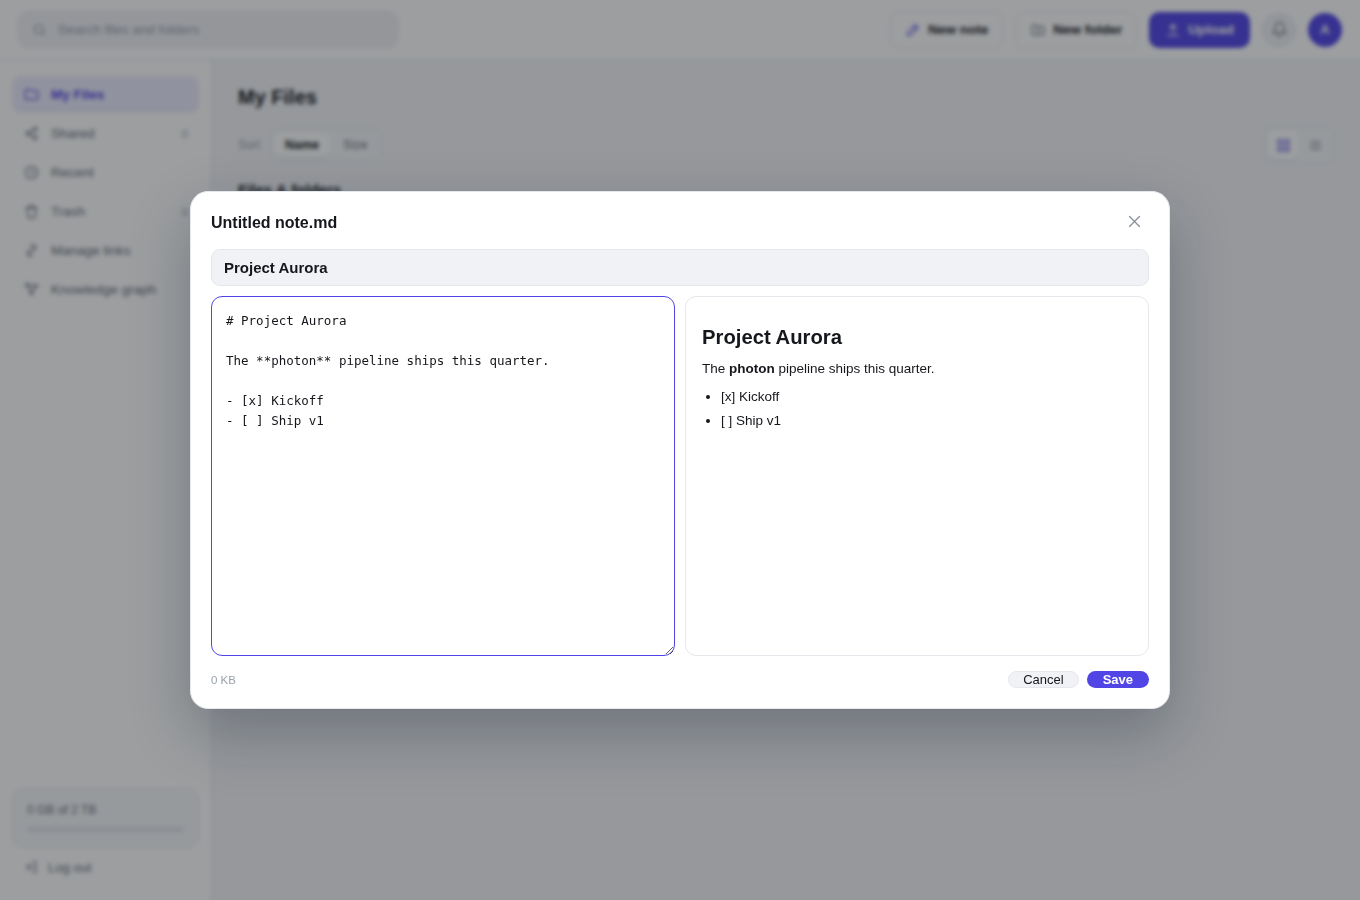
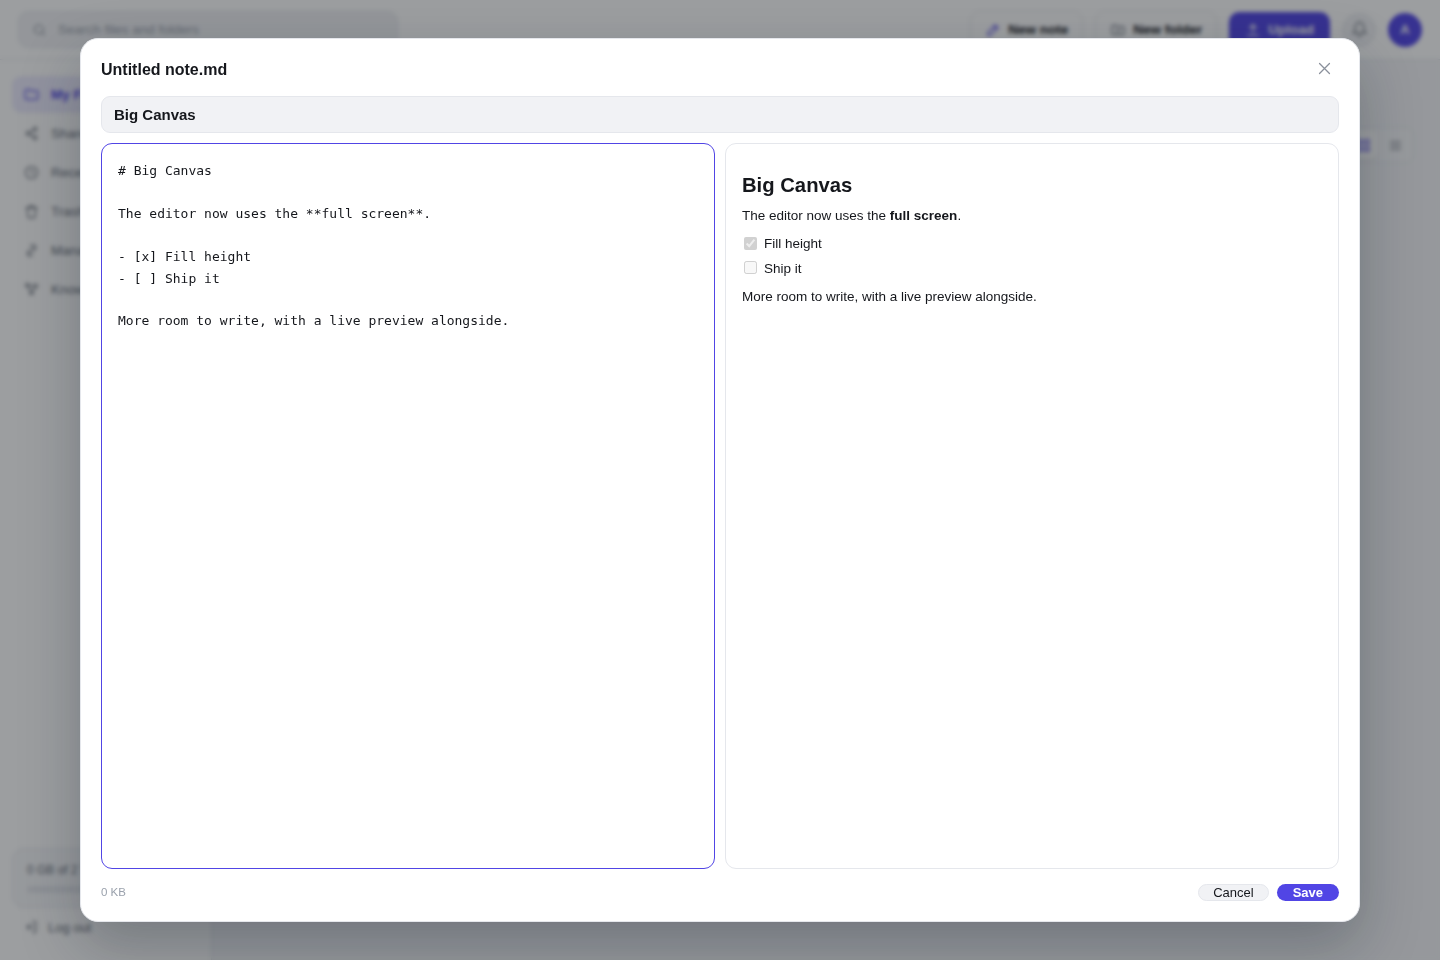
Polish the note editor: full-screen, task checkboxes, Cmd+S, no stray notes
- Full-screen writing surface: the note editor now fills ~92% of the window
  with the write and live-preview panes stretching to the full height, instead
  of a small fixed textarea. Non-note text editing keeps its resizable box.
- Markdown task lists render as real (disabled) checkboxes: '- [x] done' /
  '- [ ] todo' show ticked/empty boxes instead of literal '[x]' text.
- Cmd/Ctrl+S saves from the editor without the browser's save dialog.
- A brand-new note that's closed while still empty is discarded, so 'New note'
  → change your mind never leaves an empty 'Untitled note' behind.

No behavior change for other modals or existing text editing. Frontend 20 unit
tests (added task-list rendering) + build green; the full note walkthrough
(create/edit/save/backlinks/move/delete) re-run clean, and empty-note discard
verified.

Claude-Session: https://claude.ai/code/session_0126QC2J9R6rneDo8ahkZnT4

diff --git a/frontend/src/App.jsx b/frontend/src/App.jsx
@@ -44,6 +44,7 @@ export default class App extends React.Component {
     editName: '',
     editSaving: false,
     creatingNote: false,
+    newNoteId: null, // a just-created note; discarded if closed while still empty
     noteRelated: null, // graph neighbors of the open note (for the backlinks panel)
     // Rename / move dialogs.
     renameName: '',
@@ -747,9 +748,11 @@ export default class App extends React.Component {
         this._videoEl.pause();
       } catch (e) {}
     }
+    this._discardEmptyNewNote(); // drop an untouched brand-new note on close
     this.setState({
       modal: null,
       activeFileId: null,
+      newNoteId: null,
       videoPlaying: false,
       videoProgress: 0,
       videoCurrent: 0,
@@ -818,6 +821,7 @@ export default class App extends React.Component {
       editing: false,
       editText: '',
       editName: '',
+      newNoteId: null,
       noteRelated: null,
     });
     // Load backlinks/links for text notes so the editor can show connections.
@@ -904,12 +908,25 @@ export default class App extends React.Component {
           editText: '',
           editName: baseName(f.name),
           noteRelated: null,
+          newNoteId: f.id,
         });
       })
       .catch((err) => {
         this.setState({ creatingNote: false });
         this.toast(firstError(err, 'Could not create note'));
       });
+  }
+  // A brand-new note that's closed while still empty is discarded, so hitting
+  // "New note" and changing your mind never leaves an empty "Untitled note".
+  _discardEmptyNewNote() {
+    const { newNoteId, activeFileId, editText, editName } = this.state;
+    if (!newNoteId || newNoteId !== activeFileId) return false;
+    const bodyEmpty = !(editText || '').trim();
+    const titleUntouched = !(editName || '').trim() || editName.trim() === 'Untitled note';
+    if (!bodyEmpty || !titleUntouched) return false;
+    this.setState((s) => ({ files: s.files.filter((x) => x.id !== newNoteId), newNoteId: null }));
+    api.deleteFile(newNoteId).catch(() => {});
+    return true;
   }
 
   // --- Edit-in-place (text files / notes) -----------------------------------
@@ -928,6 +945,11 @@ export default class App extends React.Component {
     this.setState({ editName: e.target.value });
   }
   cancelEdit() {
+    // Cancelling a brand-new empty note closes and discards it entirely.
+    if (this._discardEmptyNewNote()) {
+      this.closeModal();
+      return;
+    }
     this.setState({ editing: false, editText: '', editName: '' });
   }
   saveEdit() {
@@ -950,6 +972,7 @@ export default class App extends React.Component {
             editing: false,
             editSaving: false,
             editName: '',
+            newNoteId: null, // it's a real, saved note now
             previewText: content,
             files: s.files.map((x) =>
               x.id === id
@@ -2257,7 +2280,7 @@ export default class App extends React.Component {
         : modal === 'graph'
           ? 'min(1040px, 95vw)'
           : modal === 'preview' && st.editing && st.previewKind === 'markdown'
-            ? 'min(980px, 96vw)'
+            ? 'min(1280px, 96vw)'
             : d.modalW,
       boxMaxH: theater
         ? '100vh'
@@ -2266,6 +2289,10 @@ export default class App extends React.Component {
           : modal === 'preview' && st.editing
             ? '92vh'
             : d.modalMaxH,
+      // The note editor gets a definite, near-full-screen height so the write /
+      // preview panes fill the window instead of a small fixed textarea.
+      boxH:
+        modal === 'preview' && st.editing && st.previewKind === 'markdown' ? '92vh' : undefined,
       boxBg: theater ? '#0B0C0F' : '#FFFFFF',
       boxBorder: theater ? 'none' : '1px solid #E5E7EC',
       boxRadius: theater ? '0px' : d.modalRadius,

diff --git a/frontend/src/components/PreviewModal.jsx b/frontend/src/components/PreviewModal.jsx
@@ -28,6 +28,8 @@ const mdCss = () => `
   .md-body h1{font-size:1.5em;} .md-body h2{font-size:1.28em;} .md-body h3{font-size:1.1em;}
   .md-body p{margin:0.5em 0;} .md-body ul,.md-body ol{margin:0.5em 0;padding-left:1.4em;}
   .md-body li{margin:0.2em 0;}
+  .md-body li.md-task{list-style:none;margin-left:-1.25em;display:flex;align-items:flex-start;gap:7px;}
+  .md-body li.md-task input{margin:0.28em 0 0;flex:0 0 auto;accent-color:${theme.brand};}
   .md-body code{background:${theme.surface};padding:1px 5px;border-radius:5px;font-family:'IBM Plex Mono',monospace;font-size:0.9em;}
   .md-body pre.md-pre{background:${theme.surface};padding:12px;border-radius:9px;overflow:auto;border:1px solid ${theme.border};}
   .md-body pre.md-pre code{background:none;padding:0;}
@@ -54,28 +56,43 @@ function Body(V) {
       <textarea
         value={V.editText}
         onInput={V.setEditText}
+        onKeyDown={(e) => {
+          // Cmd/Ctrl+S saves without triggering the browser's save dialog.
+          if ((e.metaKey || e.ctrlKey) && (e.key === 's' || e.key === 'S')) {
+            e.preventDefault();
+            if (!V.editSaving) V.onSaveEdit();
+          }
+        }}
         autoFocus
         spellCheck={false}
         placeholder={V.isNote ? '# Start writing…\n\nLink notes with [[Note name]].' : ''}
         style={{
-          flex: '1 1 320px',
-          minHeight: '360px',
-          resize: 'vertical',
-          padding: '14px',
+          flex: '1 1 340px',
+          minHeight: V.isNote ? '240px' : '360px',
+          resize: V.isNote ? 'none' : 'vertical',
+          padding: '16px',
           border: `1px solid ${theme.brand}`,
           borderRadius: '11px',
           background: theme.white,
           color: theme.text,
           fontFamily: "'IBM Plex Mono','SFMono-Regular',Menlo,monospace",
-          fontSize: '12.5px',
-          lineHeight: '1.6',
+          fontSize: '13px',
+          lineHeight: '1.65',
           outline: 'none',
           boxSizing: 'border-box',
         }}
       />
     );
     return (
-      <div style={{ display: 'flex', flexDirection: 'column', gap: '10px' }}>
+      <div
+        style={{
+          display: 'flex',
+          flexDirection: 'column',
+          gap: '10px',
+          flex: '1 1 auto',
+          minHeight: 0,
+        }}
+      >
         {/* Editable note title */}
         <input
           value={V.editName}
@@ -97,12 +114,13 @@ function Body(V) {
           }}
         />
         {V.isNote ? (
-          // Split: write on the left, live rendered preview on the right.
-          <div style={{ display: 'flex', gap: '10px', flexWrap: 'wrap' }}>
+          // Split: write on the left, live rendered preview on the right — both
+          // fill the (near-full-screen) editor height.
+          <div style={{ display: 'flex', gap: '10px', flexWrap: 'wrap', flex: '1 1 auto', minHeight: 0 }}>
             {editor}
             <div
               className="md-body md-live"
-              style={{ flex: '1 1 320px', minHeight: '360px' }}
+              style={{ flex: '1 1 340px', minHeight: '240px', maxHeight: 'none' }}
             >
               <style>{mdCss()}</style>
               {V.editText ? (

diff --git a/frontend/src/lib/markdown.js b/frontend/src/lib/markdown.js
@@ -105,7 +105,17 @@ export function renderMarkdown(src) {
         out.push(`<${want}>`);
         listType = want;
       }
-      out.push(`<li>${inline((ol || ul)[1])}</li>`);
+      const raw = (ol || ul)[1];
+      // Task-list item: "- [ ] todo" / "- [x] done" -> a real (disabled) checkbox.
+      const task = ul ? /^\[([ xX])\]\s+(.*)$/.exec(raw) : null;
+      if (task) {
+        const checked = task[1].toLowerCase() === 'x' ? ' checked' : '';
+        out.push(
+          `<li class="md-task"><input type="checkbox" disabled${checked}/>${inline(task[2])}</li>`
+        );
+      } else {
+        out.push(`<li>${inline(raw)}</li>`);
+      }
       i++;
       continue;
     }

diff --git a/frontend/src/lib/markdown.test.js b/frontend/src/lib/markdown.test.js
@@ -19,6 +19,14 @@ describe('renderMarkdown', () => {
     expect(ol).toContain('<li>first</li>');
   });
 
+  it('renders task-list items as checkboxes', () => {
+    const html = renderMarkdown('- [ ] todo\n- [x] done');
+    expect(html).toContain('<li class="md-task"><input type="checkbox" disabled/>todo</li>');
+    expect(html).toContain(
+      '<li class="md-task"><input type="checkbox" disabled checked/>done</li>'
+    );
+  });
+
   it('renders fenced code blocks verbatim', () => {
     const html = renderMarkdown('```\nconst x = 1;\n```');
     expect(html).toContain('<pre class="md-pre"><code>const x = 1;</code></pre>');

diff --git a/frontend/src/view/AppView.jsx b/frontend/src/view/AppView.jsx
@@ -347,6 +347,7 @@ export default function AppView({ V }) {
                   style={{
                     width: V.boxW,
                     maxWidth: '100%',
+                    height: V.boxH || 'auto',
                     maxHeight: V.boxMaxH,
                     background: V.boxBg,
                     border: V.boxBorder,
